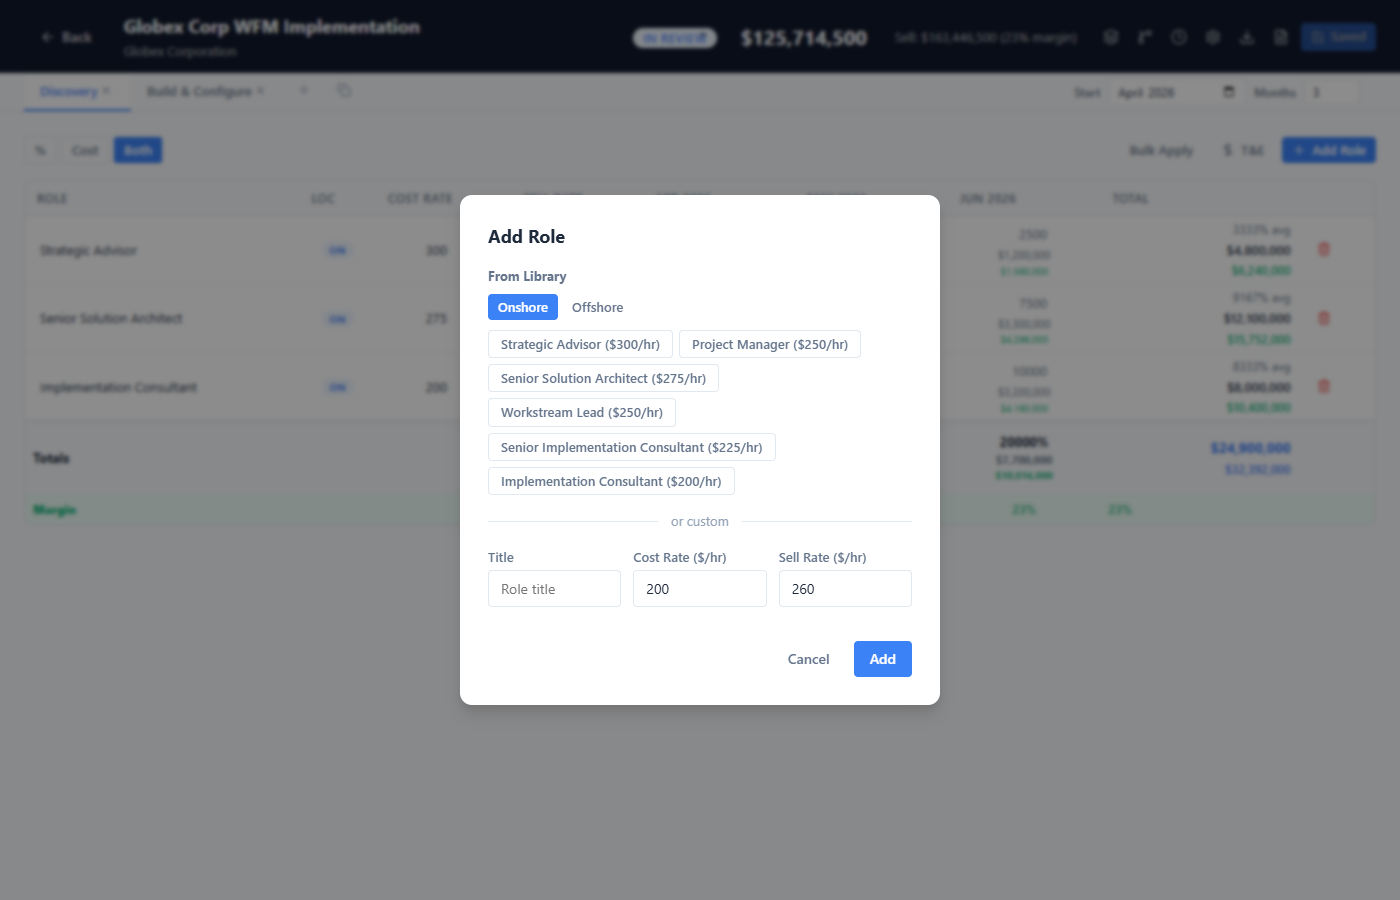
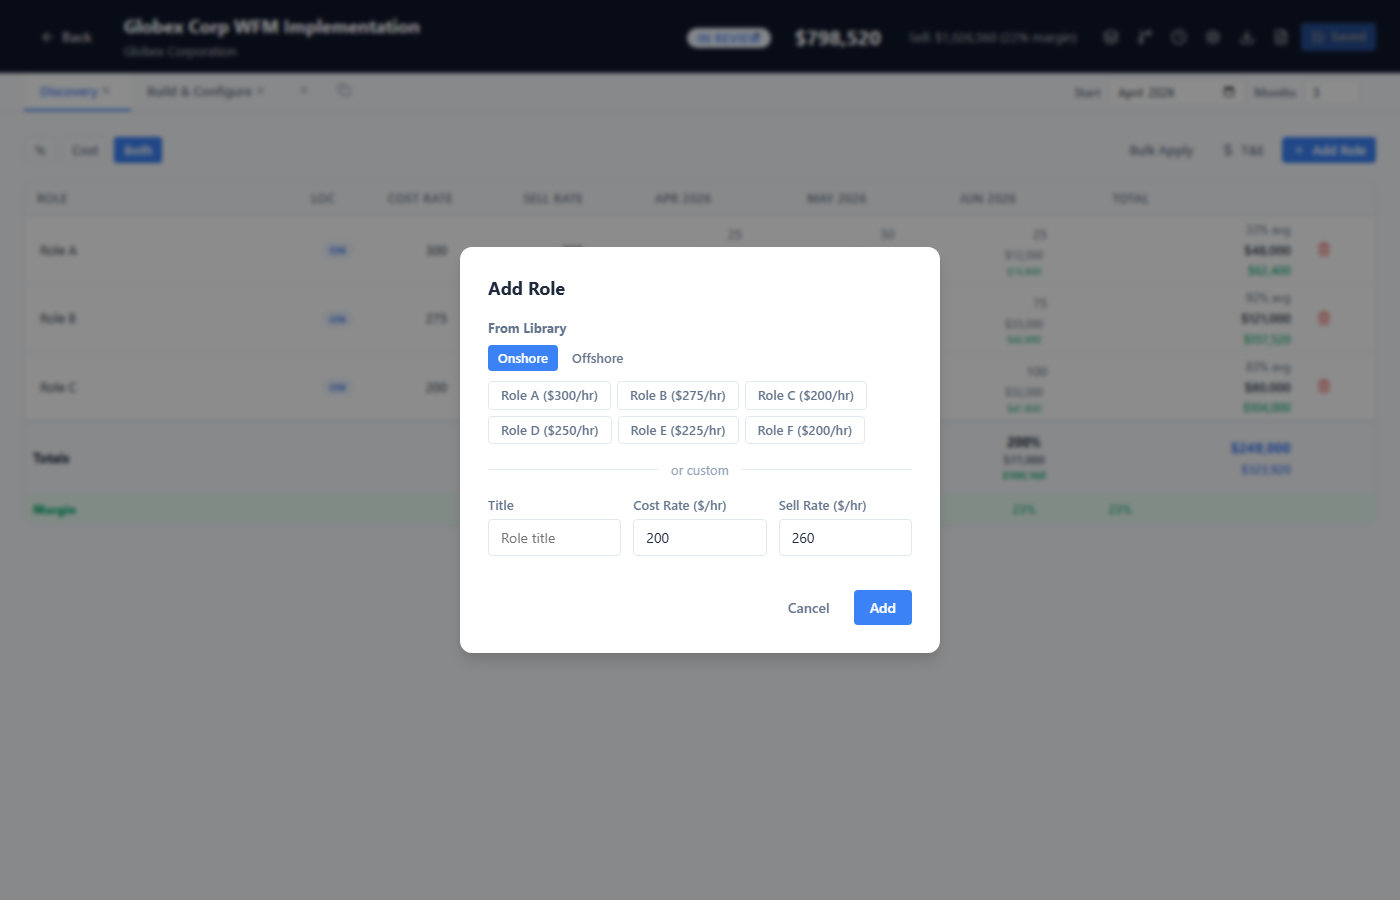
Generalize role names in screenshots/docs, add Ctrl+R refresh, human-readable estimate filenames
- Replace proprietary role names with generic Role A-F in all screenshots,
  data templates, and user guide text
- Retake estimate-editor, add-role-modal, context-menu, dashboard, and
  summary-dashboard screenshots with clean generic data
- Add Ctrl+R/F5 keyboard shortcuts via globalShortcut in Electron
- Rename estimate files from <id>.json to <name>-<id>.json for readability
- Sanitize data directory paths (strip quotes, resolve absolute)
- Fix launch.json to run server.cjs instead of Vite for preview

diff --git a/desktop/main.js b/desktop/main.js
@@ -1,4 +1,4 @@
-const { app, BrowserWindow, Tray, Menu, nativeImage, shell, dialog } = require('electron');
+const { app, BrowserWindow, Tray, Menu, nativeImage, shell, dialog, globalShortcut } = require('electron');
 const path = require('path');
 const { spawn, execSync } = require('child_process');
 const fs = require('fs');
@@ -354,6 +354,20 @@ app.on('ready', async () => {
   }
 
   createMainWindow();
+
+  // Explicit keyboard shortcuts (supplement menu accelerators)
+  globalShortcut.register('CmdOrCtrl+R', () => {
+    if (mainWindow && mainWindow.isFocused()) mainWindow.reload();
+  });
+  globalShortcut.register('CmdOrCtrl+Shift+R', () => {
+    if (mainWindow && mainWindow.isFocused()) mainWindow.webContents.reloadIgnoringCache();
+  });
+  globalShortcut.register('F5', () => {
+    if (mainWindow && mainWindow.isFocused()) mainWindow.reload();
+  });
+  globalShortcut.register('CmdOrCtrl+F5', () => {
+    if (mainWindow && mainWindow.isFocused()) mainWindow.webContents.reloadIgnoringCache();
+  });
 });
 
 app.on('window-all-closed', () => {
@@ -370,5 +384,6 @@ app.on('activate', () => {
 
 app.on('before-quit', () => {
   app.isQuitting = true;
+  globalShortcut.unregisterAll();
   stopServer();
 });

diff --git a/docs/user-guide.md b/docs/user-guide.md
@@ -86,7 +86,7 @@ Click on a card to open it. The action buttons at the bottom of each card:
 ## Creating an Estimate
 
 1. Click **New Estimate** on the dashboard.
-2. Enter an **Estimate Name** (e.g., "Acme Corp WFM Implementation").
+2. Enter an **Estimate Name** (e.g., "Acme Corp Platform Migration").
 3. Enter a **Client** name (e.g., "Acme Corporation").
 4. Click **Create**.
 
@@ -325,13 +325,13 @@ Pre-configured sets of roles for common project types.
 ### Using a Template
 
 1. Click the **Git Branch** icon in the editor toolbar.
-2. Select a template (e.g., "Standard WFM Implementation").
+2. Select a template (e.g., "Standard Implementation").
 3. The template's roles are added to the current phase.
 
 ### Default Templates
 
-- **Standard WFM Implementation** — SA, PM, SSA, 3 Workstream Leads, 4 ICs.
-- **Discovery Only** — SSA, Senior IC, IC.
+- **Standard Implementation** — Role A, Role B, 2× Role C.
+- **Discovery** — Role B, Role C.
 
 Templates can be customized in the settings.
 
